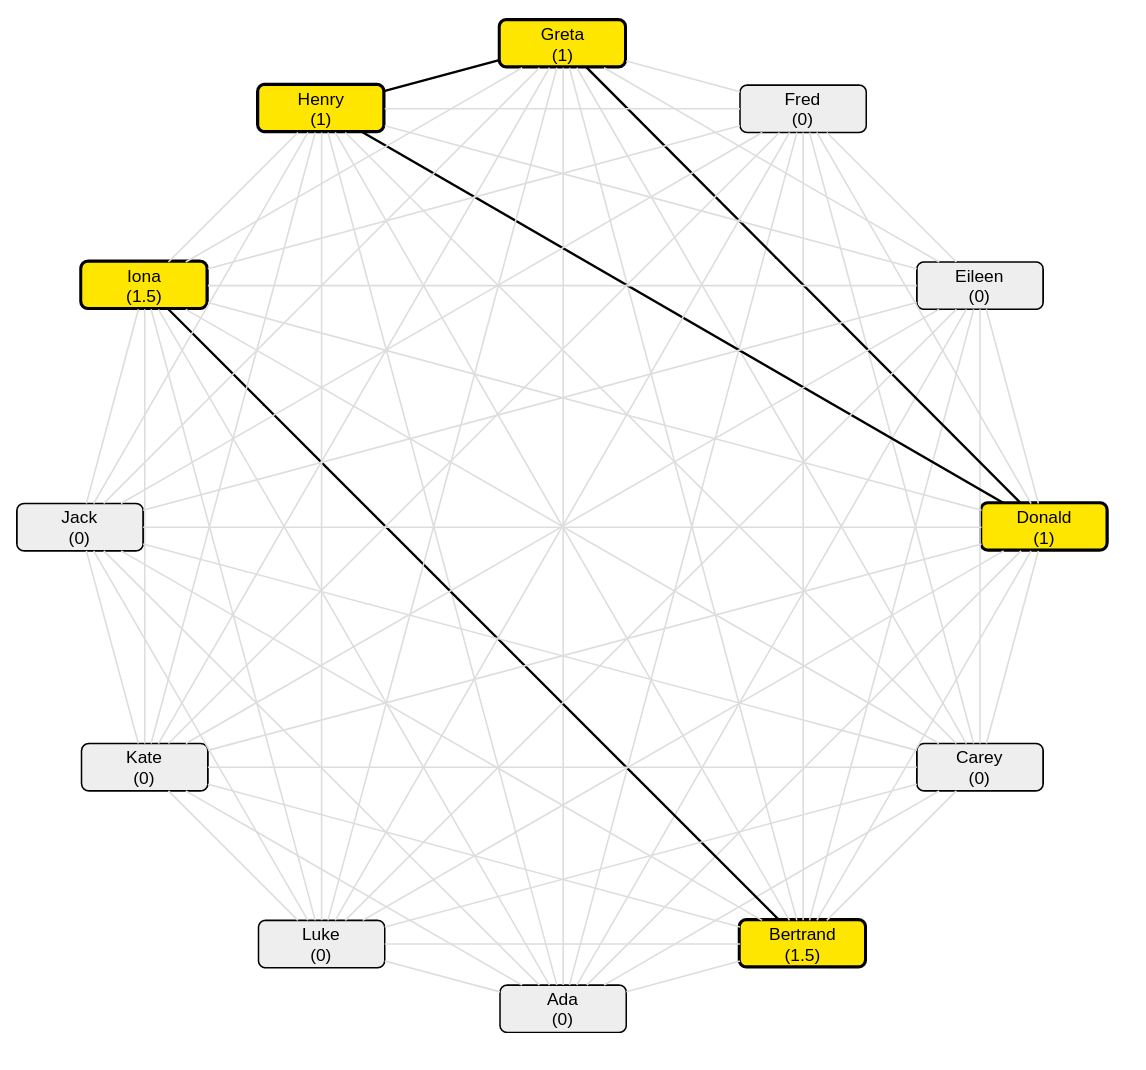
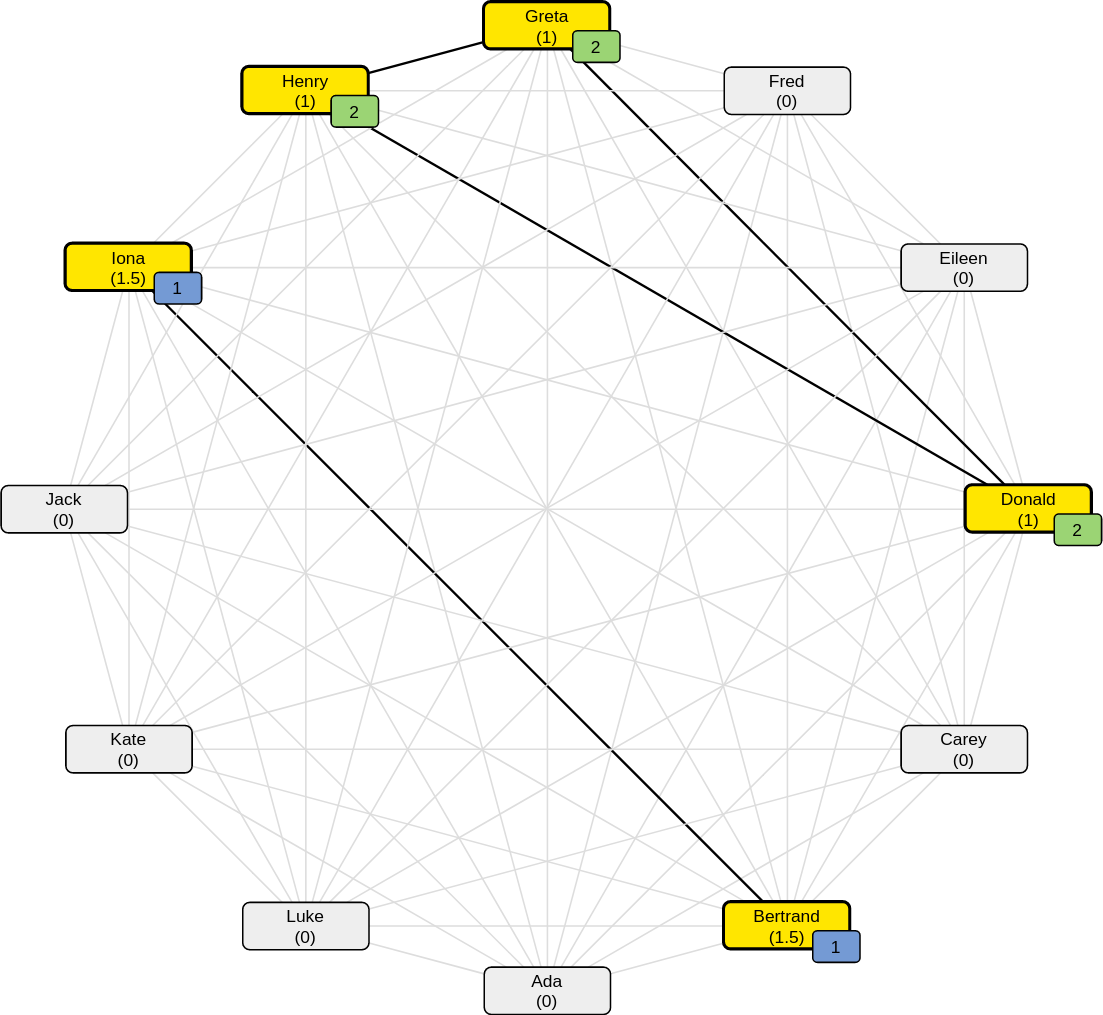
Visualise number of collaborators

diff --git a/app/draw.js b/app/draw.js
@@ -1,5 +1,6 @@
 function drawCollaborationGraph(container) {
 	var graph = new mxGraph(container);
+	graph.ordered = false;
 	setDefaultStyle(graph);
 	updateCollaborationGraphModel(graph);
 	graph.center();
@@ -22,14 +23,29 @@ function addCollaborators(graph) {
 
 	function addVertex(c) {
 		var label = `${c.name}\n(${c.getCollaborationTime()})`
-		var style = vertexStyle(c.isCollaborator());
+		var participantStyle = participantVertexStyle(c.isCollaborator());
 
 		c.vertex = graph.insertVertex( //
 			parent, //
 			null, //
 			label, //
 			40, 40, 80, 30, //
-			`defaultVertex;${style}`);
+			`defaultVertex;${participantStyle}`);
+		
+		const coeff = c.collaborationCoefficient()
+		if (coeff > 0) {
+			var collabLabel = createCollaborationLabel(coeff);
+			graph.addCell(collabLabel, c.vertex);
+		}
+
+		function createCollaborationLabel(coeff) {
+			const geom = new mxGeometry(0.7, 0.6, 30, 20);
+			geom.relative = true
+			const coeffStyle = coefficientVertexStyle(coeff);
+			const cl = new mxCell(coeff, geom, `defaultVertex;${coeffStyle}`);
+			cl.setVertex(true);
+			return cl;
+		}
 	}
 }
 
@@ -37,17 +53,20 @@ function addEdges(graph) {
 	var parent = graph.getDefaultParent();
 	var participants = Participant.allParticipants;
 
+	var edges = [];
 	for (var i=0; i<participants.length; i++) {
 		for (var j=i+1; j<participants.length; j++) {
 			var from = participants[i];
 			var to = participants[j];
-			addEdge(from, to);
+			var edge = addEdge(from, to);
+			edges.push(edge);
 		}
 	}
+	graph.orderCells(true, edges);
 
 	function addEdge(from, to) {
 		var style = edgeStyle(isCollaboratorOf(from, to));
-		graph.insertEdge( //
+		return graph.insertEdge( //
 			parent, //
 			null, //
 			"", //

diff --git a/app/style.js b/app/style.js
@@ -22,10 +22,16 @@ function setDefaultStyle(graph) {
 	}
 }
 
-function vertexStyle(isCollaborator) {
+function participantVertexStyle(isCollaborator) {
 	const STYLE_DONE = 'fillColor=#ffe600;strokeWidth=2';
 	const STYLE_NONE = 'fillColor=#eeeeee;strokeWidth=1';
 	return isCollaborator ? STYLE_DONE : STYLE_NONE;
+}
+
+function coefficientVertexStyle(coefficient) {
+	const STYLE_MANY = 'fillColor=#9bd474;strokeWidth=1';
+	const STYLE_FEW = 'fillColor=#749ad4;strokeWidth=1';
+	return (coefficient > 1) ? STYLE_MANY : STYLE_FEW;
 }
 
 function edgeStyle(areCollaborators) {

diff --git a/app/model.js b/app/model.js
@@ -10,7 +10,8 @@ class Participant {
 
 	addCollaborationWith(duration, participants) {
 		this.collaborationTime += duration;
-		participants.forEach(p => this.collaborators.push(p));
+		participants.filter(p => p !== this)
+			.forEach(p => this.collaborators.push(p));
 	}
 
 	getCollaborationTime() {
@@ -20,6 +21,10 @@ class Participant {
 
 	isCollaborator() {
 		return this.collaborationTime > 0;
+	}
+
+	collaborationCoefficient() {
+		return this.collaborators.length
 	}
 }
 

diff --git a/README.md b/README.md
@@ -2,6 +2,8 @@
 
 Minimal JavaScript tool to visualise collaborations among participants in a circular graph.
 
+Each participant is represented by a node (yellow), displaying her/his name and the total duration of collaboration sessions. For those participants that have already collaborated, the number of collaborators is represented in an additional rectangle at the lower right corner of the node (blue in case of a single collaborator, green in case of multiple collaborators).
+
 ![Screenshot of the example collaboration graph](doc/example-graph.png)
 
 ## Example
@@ -23,7 +25,7 @@ const bertrand = new Participant("Bertrand");
 // further participants
 ```
 
-In each line, we define a participant by providing a name (e.g. `Ada`) that is used in each node of the graph and store it in a constant (e.g. `ada`) or variable. The latter can then be used in the collaboration protocol, as defined in `collaborations.js`.
+In each line, we define a participant by providing a name (e.g. `Ada`) that is used in each node of the graph and store it in a constant (e.g. `ada`) or variable. The latter can then be used in the collaboration protocol, defined in `collaborations.js`.
 
 ```
 session("2023-03-05", 1.5, [bertrand, iona]);
@@ -35,7 +37,8 @@ Each "collaboration session" is assigned a date, an approximate duration and an 
 ## Development notes
 
 In this first prototype,
-- the dates are ignored (i.e. all sessions are relevant) and
-- highlighting of nodes and edges depends on collaborations in an either/or fashion only.
+- the dates are ignored (i.e. all sessions are relevant);
+- highlighting of nodes and edges depends on collaborations in an either/or fashion only and
+- the style of the collaborator numbers varies between none/one/multiple collaborators only.
 
 This tool uses [mxgraph](https://jgraph.github.io/mxgraph/). See the project's page for more details on browser requirements.
